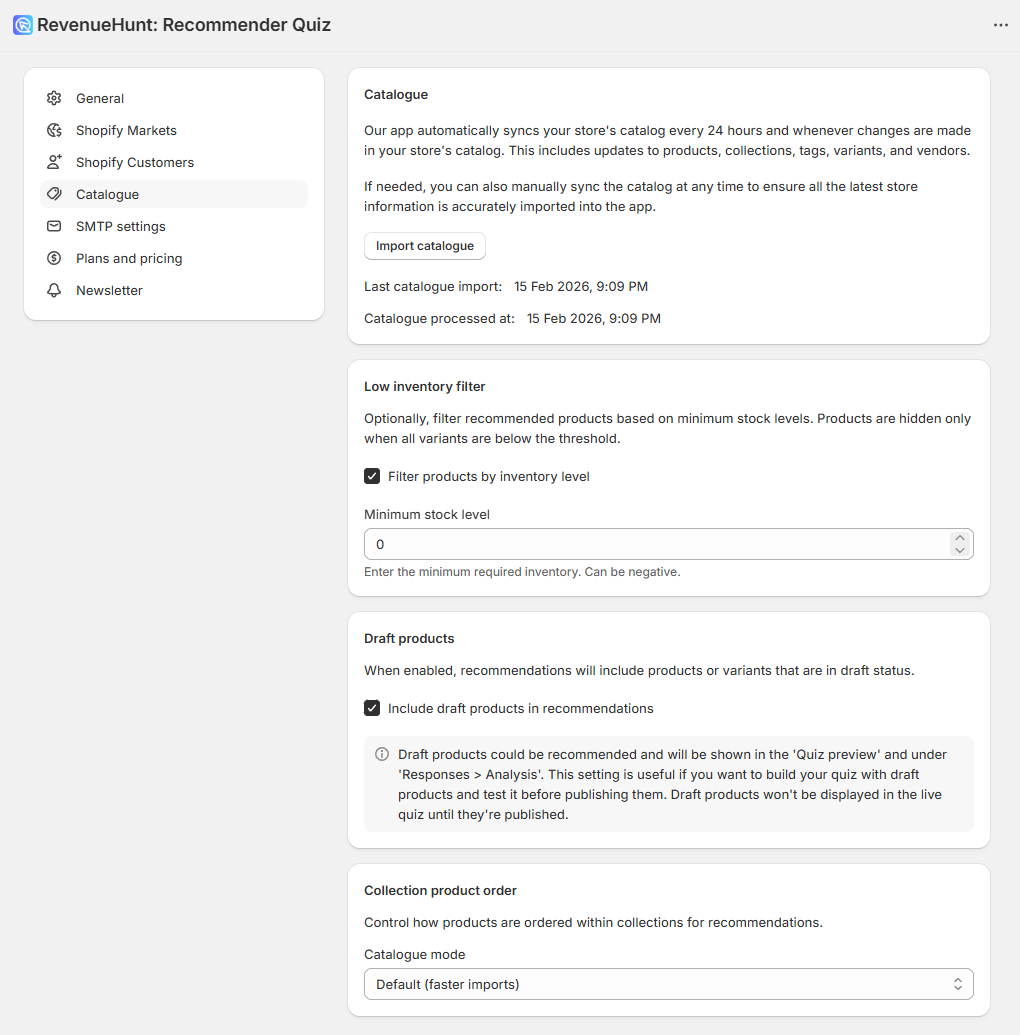
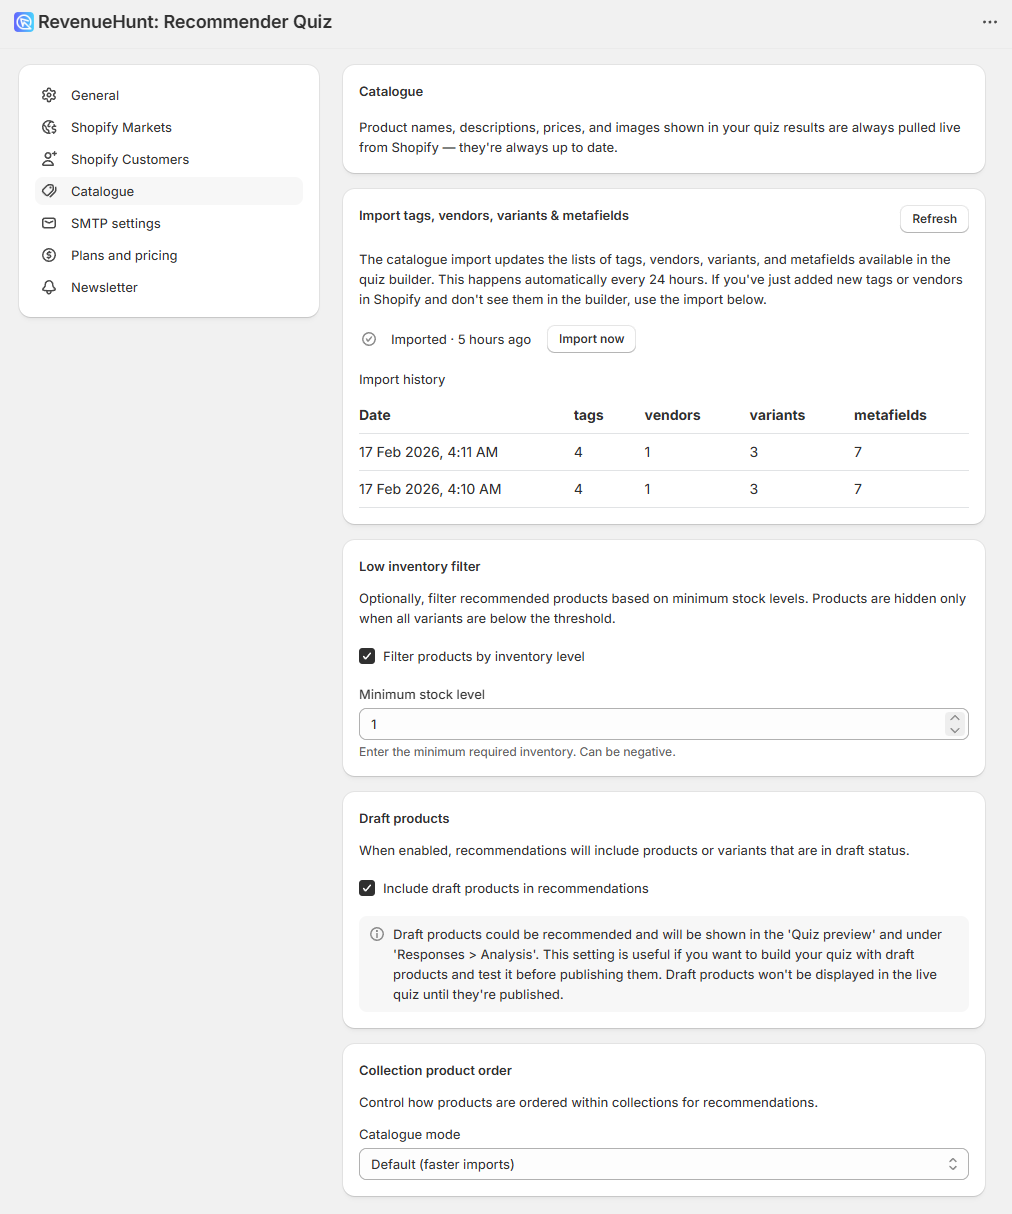
Update app settings documentation and image for Shopify V2
- Added a new 'Refresh' feature description to the app settings documentation, clarifying its function in updating import status and quantities.
- Updated the manual_shopifyV2_appsettings_catalogue.png image to reflect recent changes.

diff --git a/docs/reference/app-settings.md b/docs/reference/app-settings.md
@@ -213,6 +213,8 @@
 
     `Import now` - Start a new catalogue import. This typically takes a few minutes depending on your catalog size.
 
+    `Refresh` - Refresh the import status and tag/vendors/variants/metafields quantities.
+
     `Low inventory Filter` - This setting lets you control which products are eligible to be recommended in the quiz results based on stock levels.
 
     **When unchecked (default behavior):** Out-of-stock products will still appear in recommendations, but the "Add to cart" button will automatically display "Sold out" and become disabled. Customers cannot add out-of-stock variants to their cart. The "Sold out" text can be customized in [Quiz Settings > Content](/reference/quiz-builder/quiz-settings/#messages-quiz-content) under **Buttons**.
